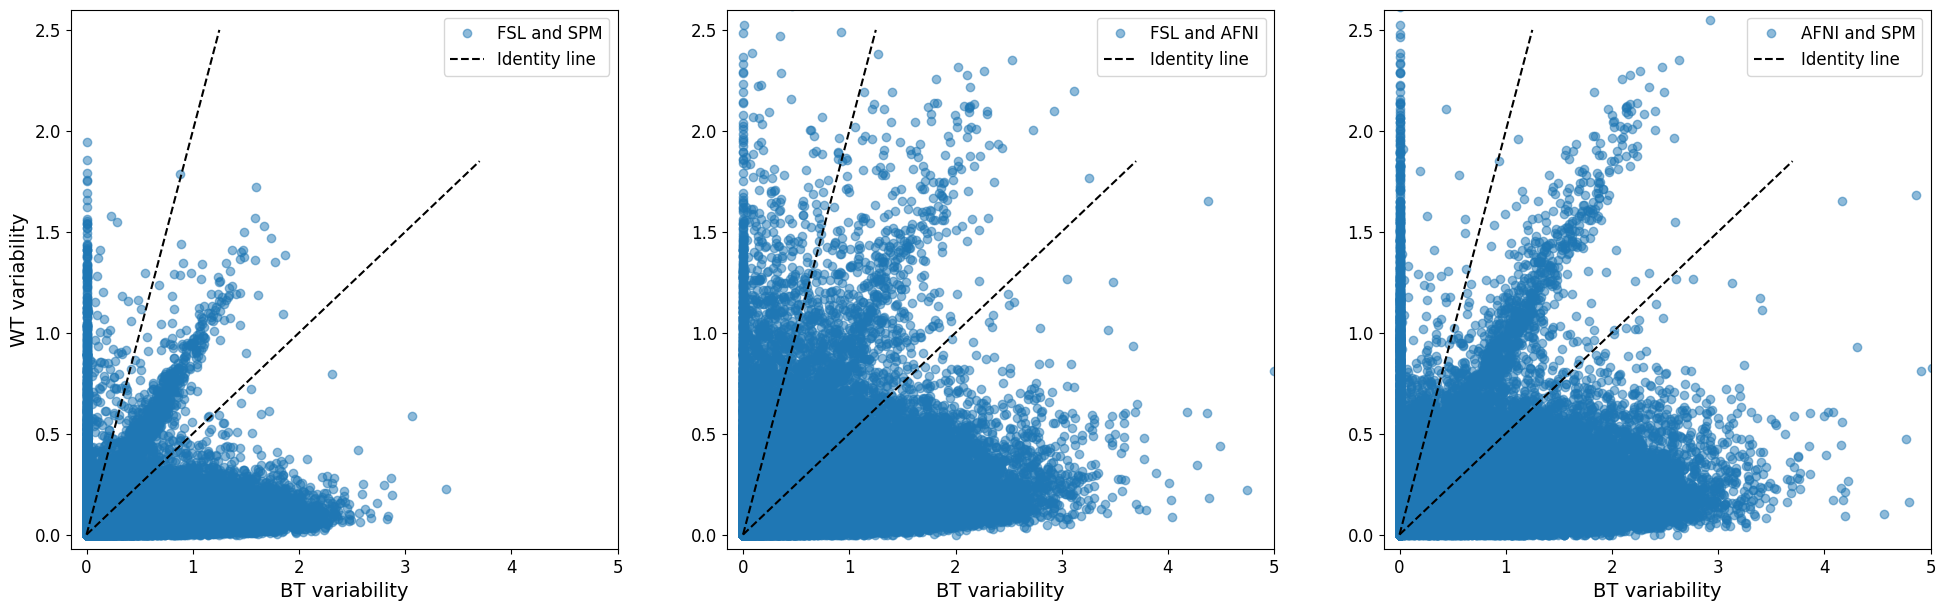
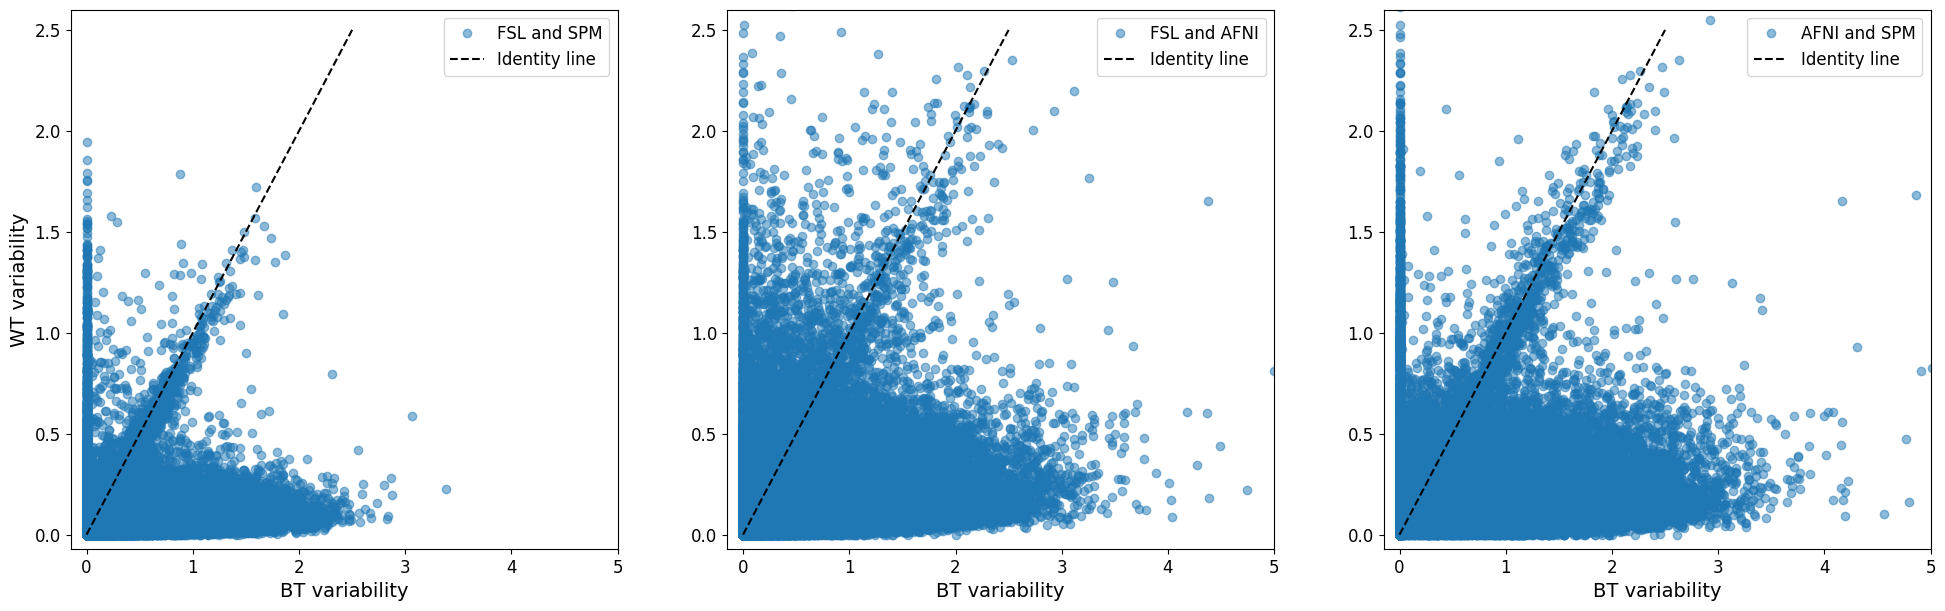
Update results

Changed region(s): [[0.7095, 0.8085, 0.7404, 0.8707], [0.3702, 0.8085, 0.401, 0.8707], [0.0308, 0.8085, 0.0617, 0.8707]]

diff --git a/paper/paper.tex b/paper/paper.tex
@@ -61,13 +61,14 @@ models implemented in different analysis software packages. While numerical
 and software variability were both shown to impact analysis outcomes, the
 extent to which these sources of variability compare for a given
 analysis remains understudied. This work presents a comparison of
-numerical and software variability for group-level functional MRI analysis
-\tristan{did we give up on individual analyses?}.
+numerical and software variability for group-level and subject-level functional MRI analyses.
 We reproduced a previous comparison between functional MRI analysis
 software packages FSL, AFNI, and SPM, which we extended to measure
 numerical variability through Monte-Carlo arithmetic.
-We find that between-tool variability is an order of magnitude higher than numerical variability.
-\tristan{summarize conclusions}
+Although We found that between-tool variability was larger than numerical variability,
+we identified brain regions that numerical perturbations simulated between-tool variability.
+Furthermore, we found more numerical instability in thresholded maps than unthresholded ones
+and individual analysis than group-level analysis results.
 
 \end{abstract}
 
@@ -303,12 +304,9 @@ This might be caused by the hardware optimizations such as dynamic scheduling~\c
 We could confirm that AFNI results were passed the quality checks by visually assessing the registration results of each individual subject.
 
 Summary statistics for the group-level unthresholded and thresholded t-statistics are reported in Table~\ref{table:pipeline-stats}.
-Overall, WT variability was an order of magnitude lower than BT variability for both means and standard deviations.
-While the highest variability was observed in \fslafni, \fslspm was made the least variations in BT.
-We also computed t-test statistics to examine differences in WT variability between tools.
-Results show that AFNI was generated the most variability in WT among the three tools with 
-the high t-value 39.6 between \fslafni samples and 65.5 between \afnispm samples, and p-value $< 0.05$.
-\ali{I'm checking this with Greg}.
+Overall, BT variability was larger than WT variability for both means and standard deviations.
+This was confirmed by computing the T-test and Wilcoxon signed-rank statistics between $BT(A, B)$, and $WT(A)$ and $WT(B)$ for $A$ and $B$ in $[FSL, SPM, AFNI]$.
+We obtained statistically significant values between BT and WT variability with t-value $> 70$ and p-value $< 0.05$ in both thresholded and unthresholded maps.
 
 %%%%%%%%%% Summary of statstics %%%%%%%%
 \setlength{\tabcolsep}{5pt}
@@ -344,7 +342,7 @@ the high t-value 39.6 between \fslafni samples and 65.5 between \afnispm samples
 Comparisons of standard deviations between thresholded images in WT and BT
 on MNI space are shown in Figure~\ref{fig:thresh-maps}.
 While we observed substantial BT variations with the average standard deviation 1.43,
-the magnitude of WT variations was much lower with the average standard deviation 0.34,
+the magnitude of WT variations was much smaller with the average standard deviation 0.34,
 as was anticipated. 
 Moreover, the magnitude of WT variations reached the magnitued of BT variations
 in some regions, shown in white in Figure~\ref{fig:thresh-maps}-\textbf{C}.
@@ -386,9 +384,8 @@ activated voxels, showing a linear correlation between BT and WT with p-value $<
 
 % Fig3
 Similar conclusions are drawn from the unthresholded t-statistics maps
-(Figure~\ref{fig:unthresh-maps}). BT variability is an order of magnitude
-higher than WT variability overall, however, BT and WT variability are
-comparable in some regions. 
+(Figure~\ref{fig:unthresh-maps}). BT variability is larger than WT variability overall, however,
+BT and WT variability are comparable in some regions. 
 
 
 %%%%%%%%%% Var. of Unthresh %%%%%%%%
@@ -405,13 +402,12 @@ comparable in some regions.
 
 % Fig4
 Figure~\ref{fig:unthresh-correlation} highlights the voxel-wise standard deviations in WT and BT variability
-with the identity lines where separate voxels with the standard deviation ratio of $0.5 < BT/WT < 2$.
-This identity area is represented on MNI space in the second row in Figure~\ref{fig:unthresh-correlation}
-for the voxels with the magnitude of standard deviation $> 0.1$.
+with the identity lines that indicate voxels with the standard deviation of $BT = WT$.
+The identity area is represented on MNI space in the second row in Figure~\ref{fig:unthresh-correlation}
+for the voxels with the magnitude of standard deviation $> 0.1$ and the satndard deviation ratio of $0.5 < BT/WT < 2$.
 The maps show the spatial localization of parts of the brain where the numerical variability simulated BT variability.
 This refines the presented results in Figure~\ref{fig:unthresh-maps}-\textbf{C},
 indicated voxels with similar magnitude of BT and WT variations were uniformly distributed across the brain.
-
 
   %%%%%%%%%% Corr. plot of tstats%%%%%%%%
   \begin{figure*}[ht]
@@ -427,9 +423,10 @@ indicated voxels with similar magnitude of BT and WT variations were uniformly d
         \includegraphics[width=\textwidth]{figures/std/correlated-unthresh.png}
         %\caption{Standard deviation of thresholded t-statistics map on template surface}
       \end{subfigure}
-      \caption{Scatter plots of unthresholded group t-statistics standard deviations computed between tools and within tools.
-        Identity lines distinguish voxels where the standard deviation ratio of BT/WT is in the interval (0.5, 2)
-        and are represented on brain maps in the second row.}
+      \caption{
+        Scatter plots of unthresholded group t-statistics standard deviations computed between tools and within tools.
+        The identity line distinguishes voxels where the standard deviation BT is equal to WT.
+        Voxels with the standard deviation ratio of BT/WT in the interval (0.5, 2) are represented on brain maps in the second row.}
     \label{fig:unthresh-correlation}
     \end{minipage}}
   \end{figure*}
@@ -502,13 +499,13 @@ show significant WT variability, particularly for some regions in the frontal, p
 
 We represented differences in the results of an fMRI analysis between numerical variability
 and the variability arisen from software package variations.
-Although BT variability was an order of magnitude higher than WT variability on average,
+Although BT variability was larger than WT variability on average,
 we demonstrated regions in the brain maps that numerical perturbations could simulate BT variability.
 The correlation of these variabilities suggests that numerical perturbations can be used to evaluate the robustness of the analyses
 to inter-software disparities.
 
 While switching between \fslspm was generated the least BT and WT variabilities consistently, the most level of these variabilities was identified
-between \fslafni and \afnispm. We also found AFNI as the most sensitive tool to numerical perturbations.
+between \fslafni and \afnispm. %We also found AFNI as the most sensitive tool to numerical perturbations.
 These results do not indicate which software package is better or worse since there is no ground-truth model for the analyses.
 However, this study revealed the importance of numerical instability in the selected tools for doing fMRI analyses.
 It provided a view of related numerical variability of which should be taken into consideration by the software developers.
